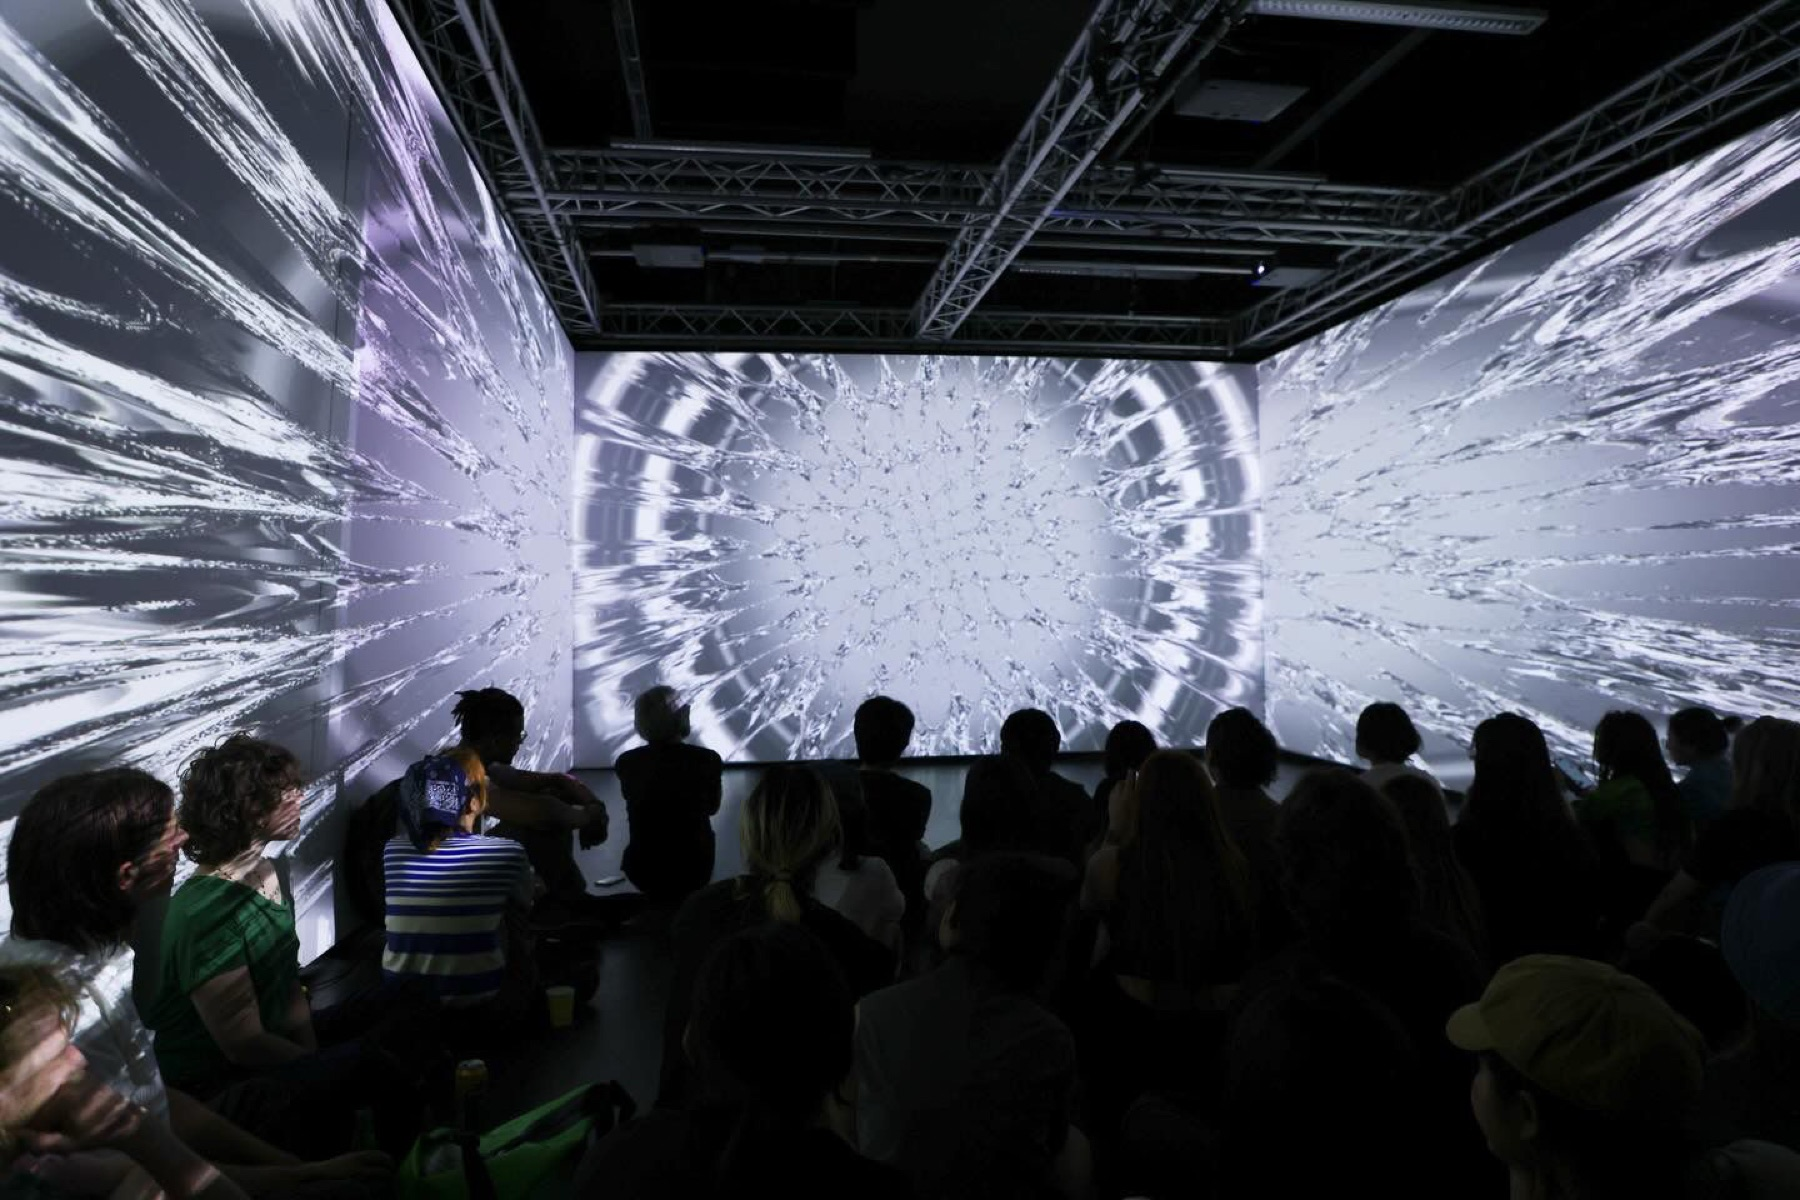
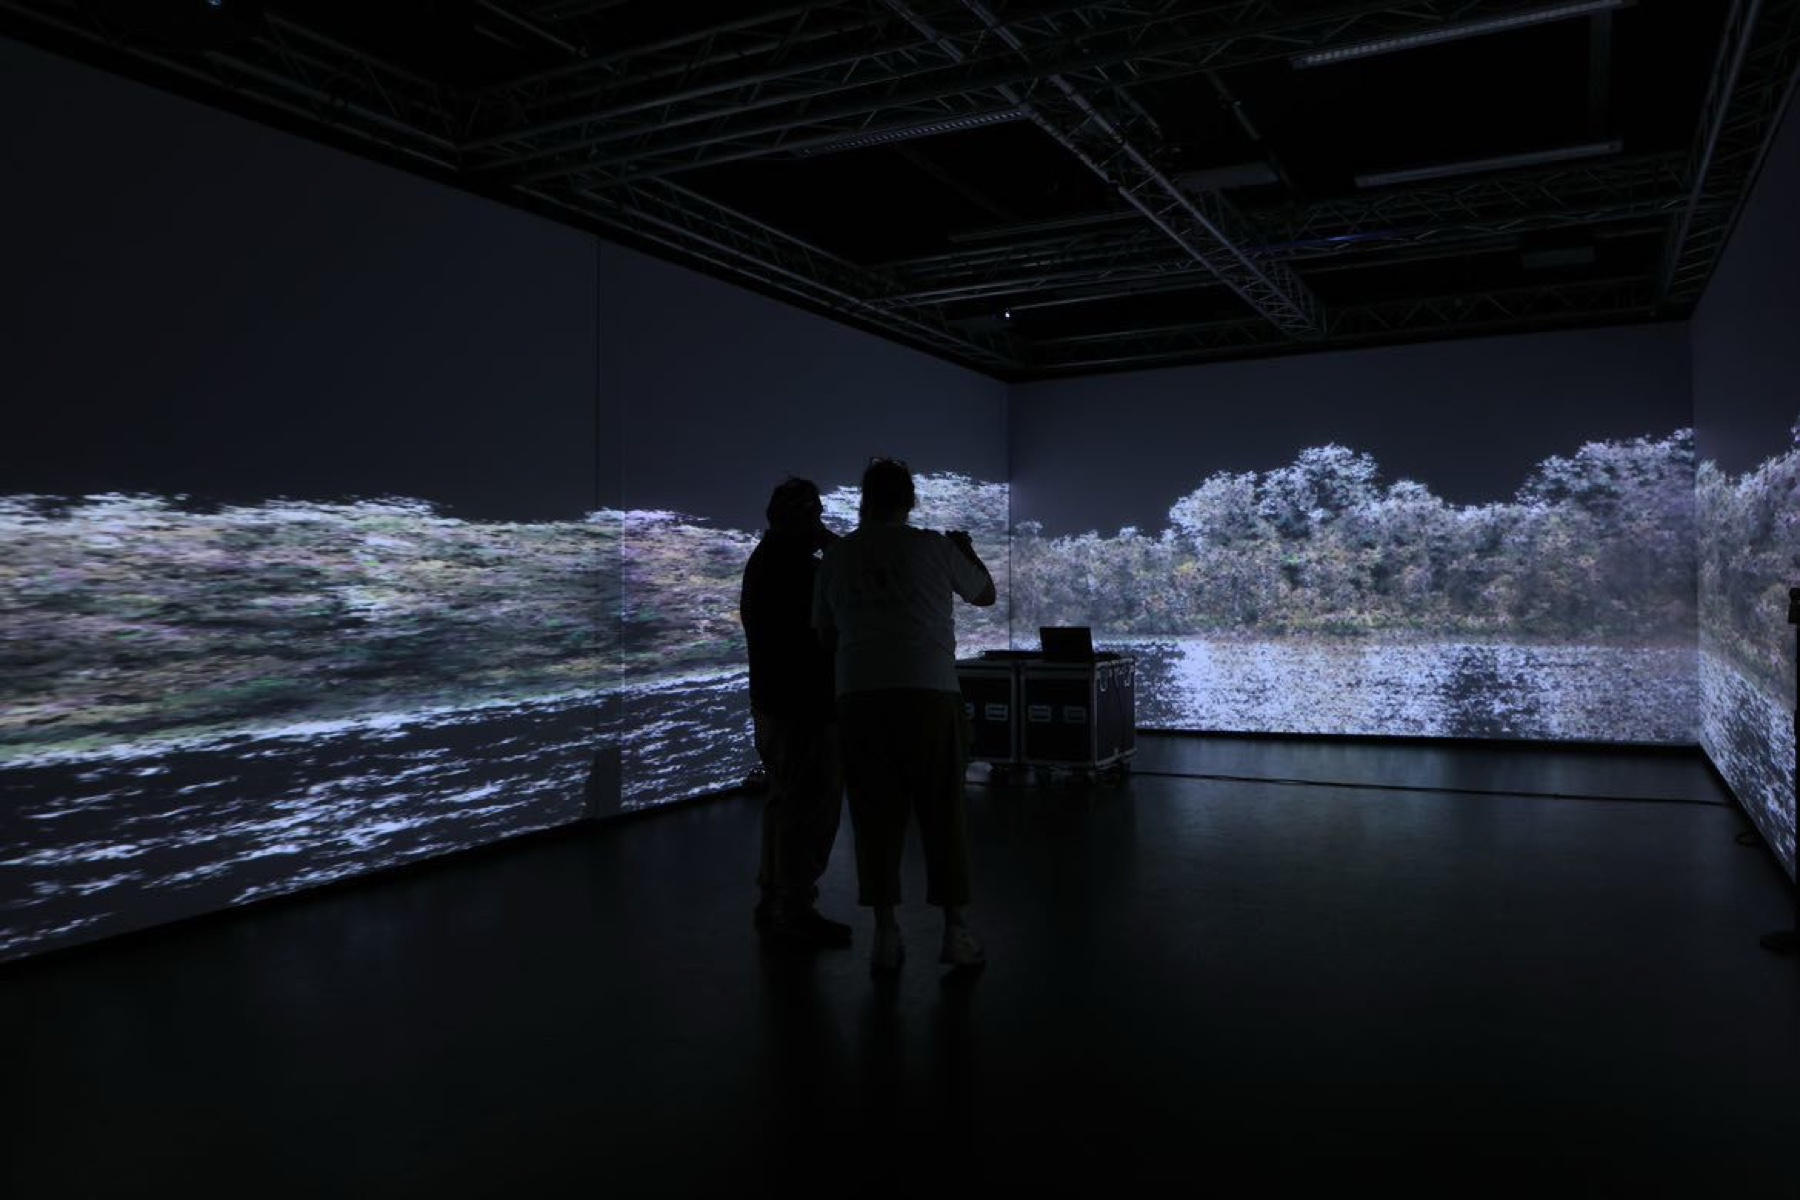
Replace duplicate Hutan Plastik installation photo
hutan-plastik-05.jpg was the same shot as hutan-plastik-01.jpg. Swapped
in a distinct photo of visitors viewing the forest-and-water visual.

diff --git a/works/hutan-plastik/index.html b/works/hutan-plastik/index.html
@@ -65,7 +65,7 @@
 
       <div class="work-media two">
         <figure><img src="/images/works/hutan-plastik-04.jpg" alt="Empty diffusion room, wrap-around wave-form projection on three walls."></figure>
-        <figure><img src="/images/works/hutan-plastik-05.jpg" alt="Full audience seated for the Hutan Plastik listening session."></figure>
+        <figure><img src="/images/works/hutan-plastik-05.jpg" alt="Two visitors viewing the wrap-around forest-and-water generative visual up close."></figure>
       </div>
       <div class="work-media two">
         <figure><img src="/images/works/hutan-plastik-01.jpg" alt="Wrap-around generative floral pattern across the diffusion room."></figure>
